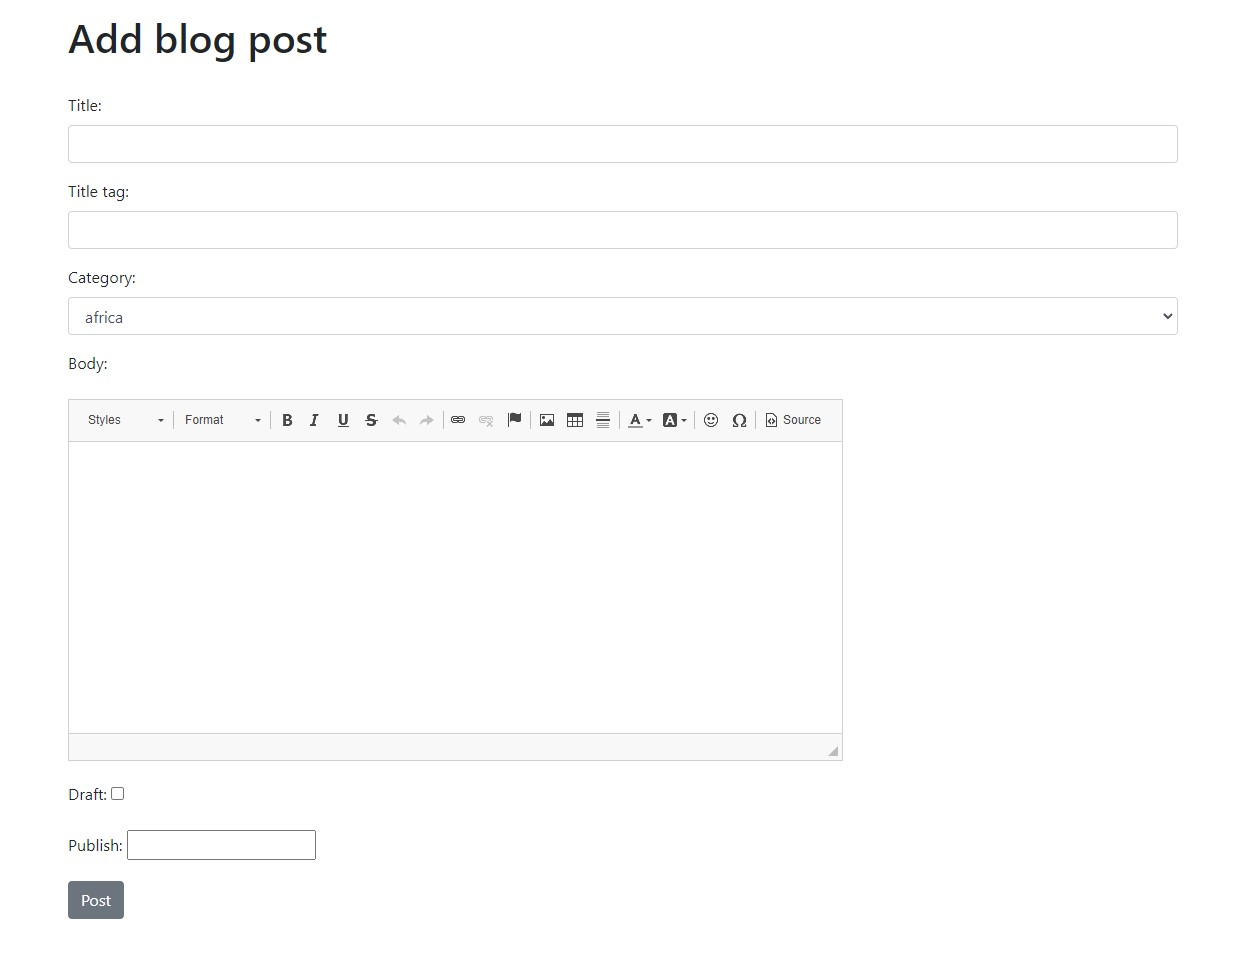
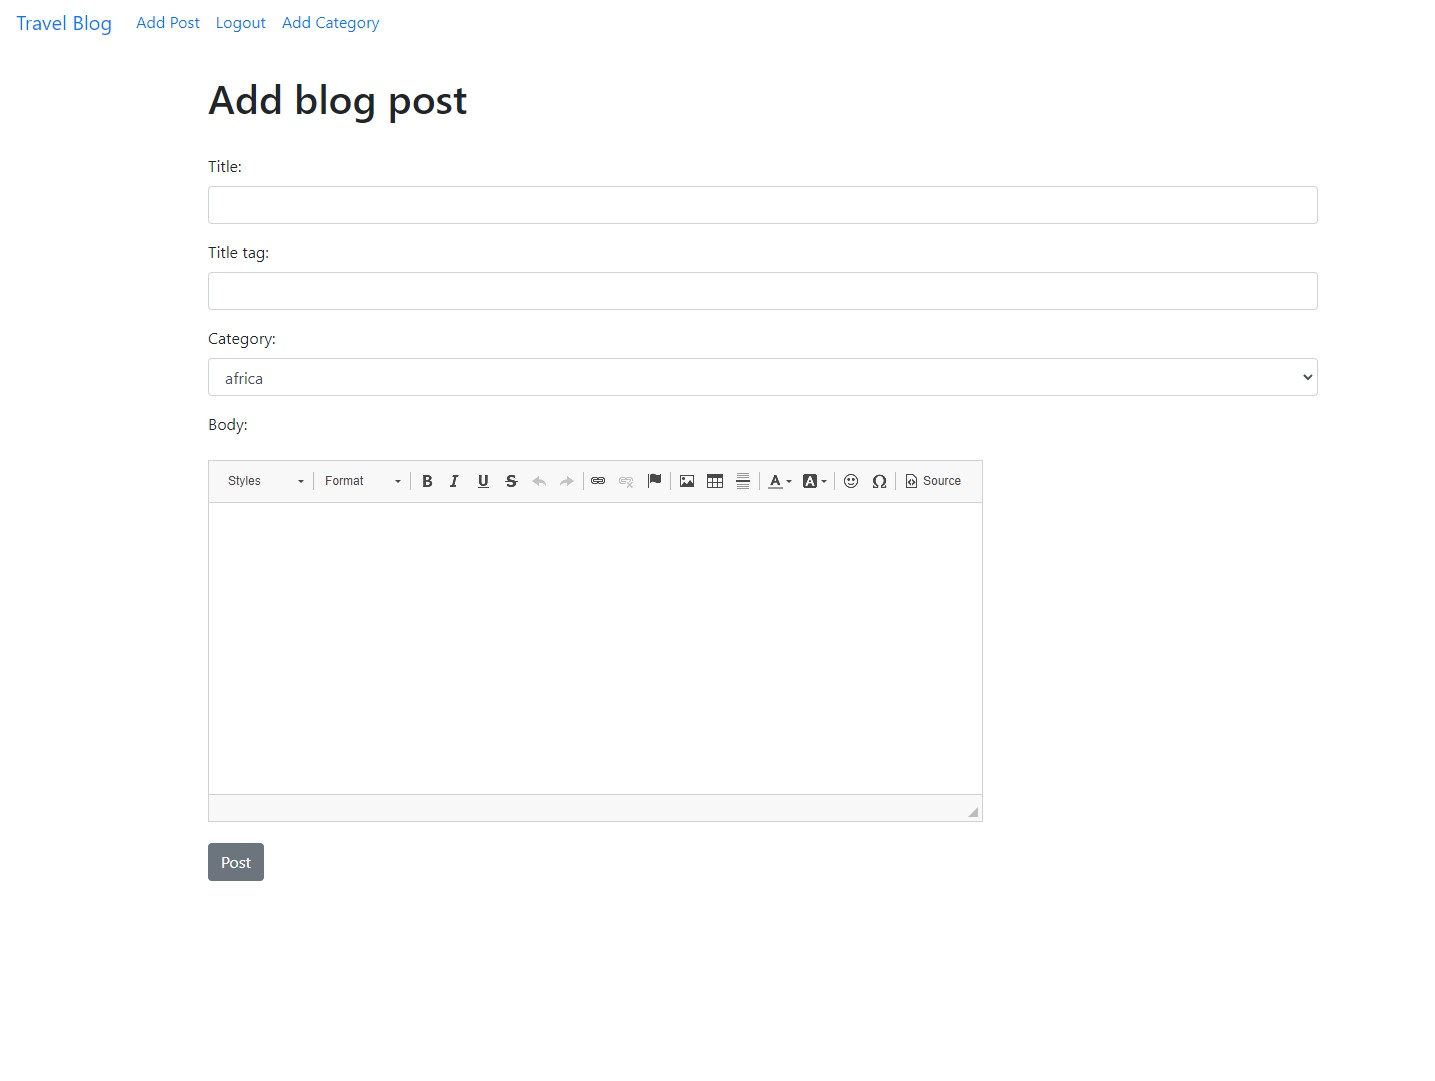
update readme and images

diff --git a/travel/migrations/0011_remove_post_draft_remove_post_publish.py b/travel/migrations/0011_remove_post_draft_remove_post_publish.py
@@ -1,0 +1,21 @@
+# Generated by Django 4.2.10 on 2024-02-17 14:07
+
+from django.db import migrations
+
+
+class Migration(migrations.Migration):
+
+    dependencies = [
+        ('travel', '0010_rename_drafts_post_draft'),
+    ]
+
+    operations = [
+        migrations.RemoveField(
+            model_name='post',
+            name='draft',
+        ),
+        migrations.RemoveField(
+            model_name='post',
+            name='publish',
+        ),
+    ]

diff --git a/README.md b/README.md
@@ -5,7 +5,7 @@ can leave blog posts, add categories, comments and likes. This simple and easy t
 
 ![Home Screen](accounts/static/images/responsive.jpg)
 
-[View Rebaz Travel Blog live website here](https://rebazptravelblog-3e0a8b8b8d3b.herokuapp.com/)
+[View Rebaz Travel Blog Live Website Here](https://rebazptravelblog-3e0a8b8b8d3b.herokuapp.com/)
 ---
 
 ## Table of Contents
@@ -49,7 +49,7 @@ Join in on simple to use travel blog and share travel memories and tips. No adva
 
 ### Project Goals
 
-The goal with this project is to share traveltips and memories through text and pictures.
+The goal with this project is to share traveltips and memories through text and pictures. Engage with readers through creating blog posts and comments. Also give the ability for users to create their own categories.
 
 ### Agile Methodology
 
@@ -116,20 +116,17 @@ Agile Methodology was used to help prioritize and organize tasks, writting the u
 * Given a logged in user, they can read a blog post
 * Given a logged in user, they can update a blog post
 * Given a logged in user, they can delete a blog post
-8. Create drafts
-* Given a logged in user, they can save a draft blog post
-* Then they can finish the content at a later time
-9. Likes
+8. Likes
 * Given one or more user likes the user / admin can view them
 
-Detailed look can be found in the [project board](https://github.com/users/rebazp/projects/6)
+Detailed look can be found in the [Project Board](https://github.com/users/rebazp/projects/6)
 
 ### Target Audience
 
 * People seeking travel tips.
 * People seeking to share travel tips.
 
-### First time user
+### First Time User
 
 * Simple and intuitive blog with easy navigation.
 * Easy Registration process.
@@ -142,7 +139,7 @@ Detailed look can be found in the [project board](https://github.com/users/rebaz
 * Give comments likes and dislikes.
 * Create new categories.
 
-### Admin user
+### Admin User
 
 * Secure and separate login portal for admin users with appropriate access control.
 * Access to an admin dashboard for managing users, posts, comments and likes/dislikes.
@@ -169,42 +166,42 @@ All images used in blog posts are taken from google search.
 <summary> Home page when logged in
 </summary>
 
-![Home page when logged in](accounts/static/images/wireframehomepagelogin.jpg)
+![Home Page When Logged In](accounts/static/images/wireframehomepagelogin.jpg)
 </details>
 
 <details>
 <summary> Login page
 </summary>
 
-![Login page](accounts/static/images/wireframeloginpage.jpg)
+![Login Page](accounts/static/images/wireframeloginpage.jpg)
 </details>
 
 <details>
 <summary> Register page
 </summary>
 
-![Register page](accounts/static/images/wireframeregisterpage.jpg)
+![Register Page](accounts/static/images/wireframeregisterpage.jpg)
 </details>
 
 <details>
 <summary> Add post page
 </summary>
 
-![Add post page](accounts/static/images/wireframeaddpost.jpg)
+![Add Post Page](accounts/static/images/wireframeaddpost.jpg)
 </details>
 
 <details>
 <summary> Add comment page
 </summary>
 
-![Add comment page](accounts/static/images/wireframeaddcomment.jpg)
+![Add Comment Page](accounts/static/images/wireframeaddcomment.jpg)
 </details>
 
 <details>
 <summary> Add category page
 </summary>
 
-![Add category page](accounts/static/images/wireframeaddcategory.jpg)
+![Add Category Page](accounts/static/images/wireframeaddcategory.jpg)
 </details>
 
 
@@ -241,16 +238,16 @@ All images used in blog posts are taken from google search.
 * Home page
     * Displays a navigation bar at the top and blog posts in the center of the page.
 
-![Home page](accounts/static/images/homepage.jpg)
+![Home Page](accounts/static/images/homepage.jpg)
 
 * Once logged in the Add post and Add category links appear.
 
-![Logged in](accounts/static/images/mainpage.jpg)
+![Logged In](accounts/static/images/mainpage.jpg)
 
 * Category navbar
     * Display a dropdown navbar with categories.
 
-![Category navbar](accounts/static/images/categorynavbar.jpg)
+![Category Navbar](accounts/static/images/categorynavbar.jpg)
 
 * Navigation Bar
     * It differs if its a user or visitor.
@@ -264,7 +261,7 @@ All images used in blog posts are taken from google search.
 * Sign up
     * User can create an account.
 
-![Sign up](accounts/static/images/register.jpg)
+![Sign Ip](accounts/static/images/register.jpg)
 
 * Login
     * User can login into an account, if they have created one.
@@ -276,47 +273,47 @@ All images used in blog posts are taken from google search.
     * Form validation is implemented to make sure form are submitted correctly and if there is an error user will be notified with alert message.
     * When user creates blog post they get redirected to homepage.
 
-![Create blog post](accounts/static/images/addpost.jpg)
+![Create Blog Post](accounts/static/images/addpost.jpg)
 
 * Update blog post
     * Users can update blog post they created by pressing on the edit button.
     * When user update blog post they get redirected to homepage.
 
-![Update blog post](accounts/static/images/uppdatepost.jpg)
+![Update Blog Post](accounts/static/images/uppdatepost.jpg)
 
 * Delete blog post
     * Users can delete a blog post they created by pressing on the delete button.
     * When user delete blog post they get redirected to homepage.
 
-![Delete blog post](accounts/static/images/deletepost.jpg)
+![Delete Blog Post](accounts/static/images/deletepost.jpg)
 
 * View blog post
     * When user press on a blog post they can see the content of the blog post, comments and likes. If they are the creator of the blog post then they can edit or delete blog post.
     
-![View blog post](accounts/static/images/postview.jpg)
+![View Blog Post](accounts/static/images/postview.jpg)
 
 * Comment blog post
     * Users can comment blog post by pressing on the comment button.
     * When user comment blog post they get redirected to homepage.
 
-![Comment blog post](accounts/static/images/addcomment.jpg)
+![Comment Blog Post](accounts/static/images/addcomment.jpg)
 
 * Add category
     * User can add categories to expand the blog further.
     * When user comment blog post they get redirected to homepage.
 
-![Add category](accounts/static/images/addcategory.jpg)
+![Add Category](accounts/static/images/addcategory.jpg)
 
 * Inside category
     * Inside the category page the user can see which posts have been made in that specific category.
 
-![Category page](accounts/static/images/insidecategory.jpg)
+![Category Page](accounts/static/images/insidecategory.jpg)
 
 * Like & dislike blog post
     * User can like or dislike blog posts.
     * When user have pressed the button the total likes changes.
 
-![Like & dislike](accounts/static/images/likes.jpg)
+![Like & Dislike](accounts/static/images/likes.jpg)
 
 * Admin Features
     * Django built in admin panel allows admin control over the website.
@@ -366,7 +363,7 @@ All images used in blog posts are taken from google search.
 
 ## Deployment and Local Developement
 
-Live deployment can be found on this [View Rebaz Travel Blog live website here](https://rebazptravelblog-3e0a8b8b8d3b.herokuapp.com/)
+Live deployment can be found on this [View Rebaz Travel Blog Live Website Here](https://rebazptravelblog-3e0a8b8b8d3b.herokuapp.com/)
 
 ### Local Developement
 
@@ -449,7 +446,7 @@ Please see  [TESTING.md](TESTING.md) for all the detailed testing performed.
 ## References
 For thhis project I have used help from the Code Institute example project I think therefore i blog and some Youtube channels. Most of the code that I have used in this project is my own which I have learned during my time studying at Code Institute.
 
-* Code Institute project 4 [I think therefore i blog](https://learn.codeinstitute.net/courses/course-v1:CodeInstitute+FSD101_WTS+2023_Q3/courseware/56a2da0940b4411d8a38c2b093a22c60/4565659a34d648b8b8edd063c3182180/)
+* Code Institute project 4 [I Think Therefore I Blog](https://learn.codeinstitute.net/courses/course-v1:CodeInstitute+FSD101_WTS+2023_Q3/courseware/56a2da0940b4411d8a38c2b093a22c60/4565659a34d648b8b8edd063c3182180/)
 * Youtube series Django Tutorial by [Net Ninja](https://www.youtube.com/watch?v=n-FTlQ7Djqc&list=PL4cUxeGkcC9ib4HsrXEYpQnTOTZE1x0uc&index=1&ab_channel=NetNinja)
 * Youtube series Python Django Tutorial by [Corey Schafer](https://www.youtube.com/watch?v=UmljXZIypDc&list=PL-osiE80TeTtoQCKZ03TU5fNfx2UY6U4p&index=1&ab_channel=CoreySchafer)
 * Yoube Python Django Web Framework by [FreeCodeCamp](https://www.youtube.com/watch?v=F5mRW0jo-U4&ab_channel=freeCodeCamp.org)
